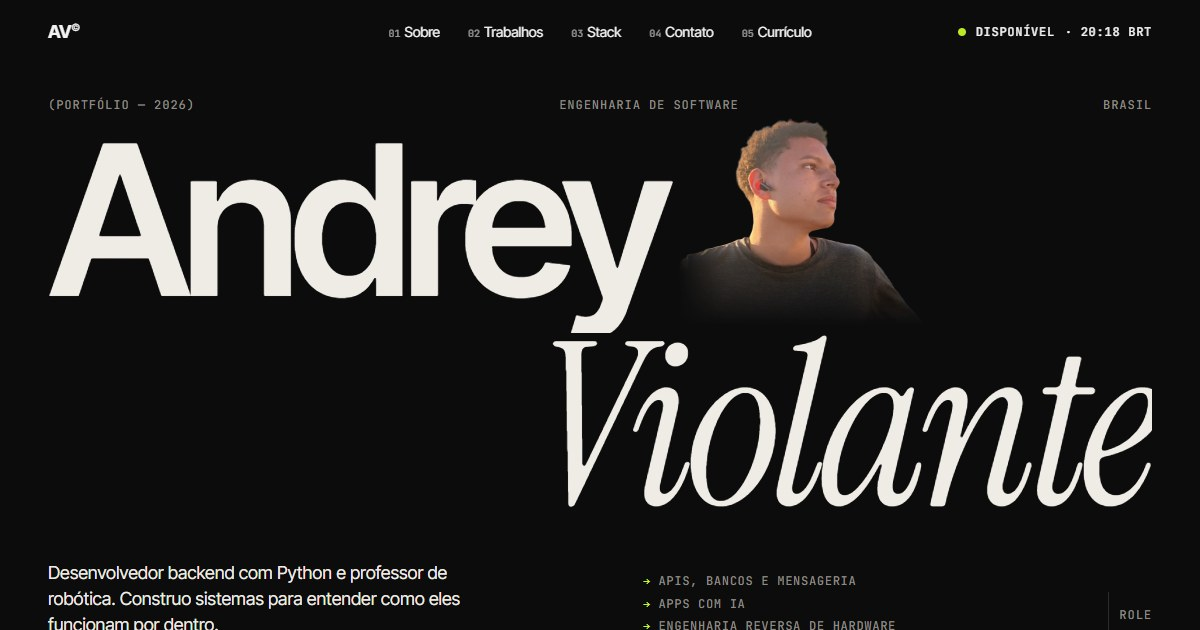
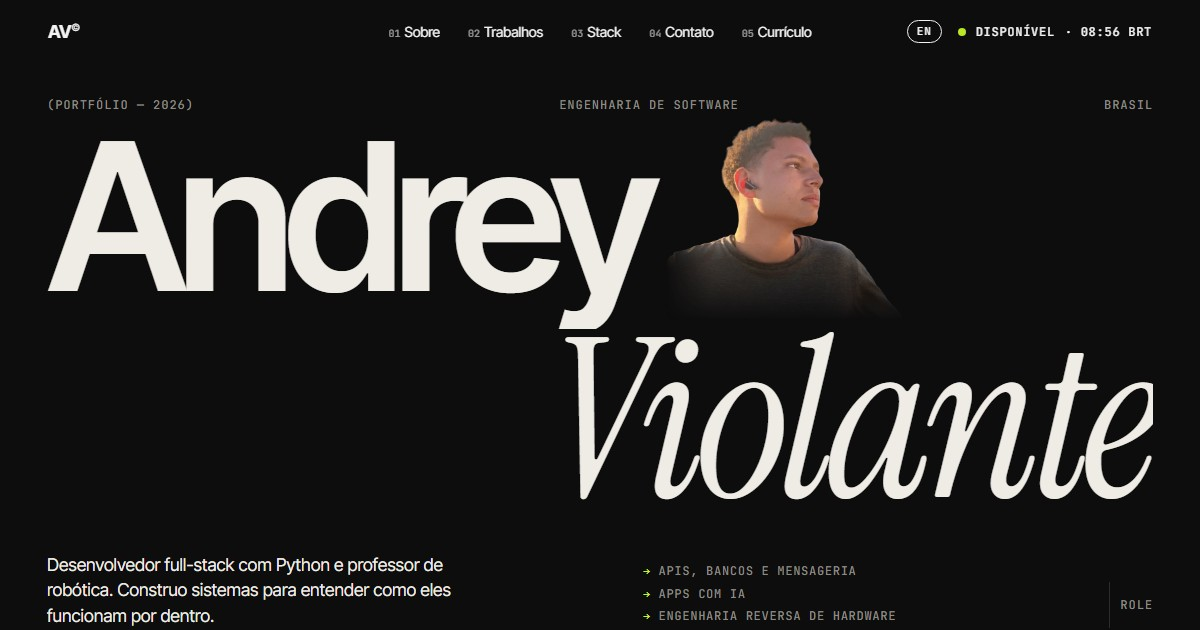
Portfólio em Full-Stack: textos em português e inglês, coluna Front-end no Stack e nova imagem de prévia

diff --git a/index.html b/index.html
@@ -3,11 +3,11 @@
 <head>
 <meta charset="utf-8">
 <meta name="viewport" content="width=device-width, initial-scale=1">
-<title>Andrey Violante · Desenvolvedor Backend</title>
-<meta name="description" content="Portfólio de Andrey Violante: estudante de Engenharia de Software, desenvolvedor backend com Python e professor de robótica.">
+<title>Andrey Violante · Desenvolvedor Full-Stack</title>
+<meta name="description" content="Portfólio de Andrey Violante: estudante de Engenharia de Software, desenvolvedor full-stack com Python e professor de robótica.">
 <meta name="theme-color" content="#0c0c0d">
-<meta property="og:title" content="Andrey Violante · Desenvolvedor Backend">
-<meta property="og:description" content="Backend com Python, apps com IA e engenharia reversa de hardware.">
+<meta property="og:title" content="Andrey Violante · Desenvolvedor Full-Stack">
+<meta property="og:description" content="Full-stack com Python, apps com IA e engenharia reversa de hardware.">
 <meta property="og:type" content="website">
 <meta property="og:url" content="https://andreyviolante.github.io/">
 <meta property="og:locale" content="pt_BR">
@@ -15,7 +15,7 @@
 <meta property="og:image" content="https://andreyviolante.github.io/assets/og.jpg">
 <meta property="og:image:width" content="1200">
 <meta property="og:image:height" content="630">
-<meta property="og:image:alt" content="Andrey Violante, desenvolvedor backend">
+<meta property="og:image:alt" content="Andrey Violante, desenvolvedor full-stack">
 <meta name="twitter:card" content="summary_large_image">
 <meta name="twitter:image" content="https://andreyviolante.github.io/assets/og.jpg">
 <link rel="canonical" href="https://andreyviolante.github.io/">
@@ -336,7 +336,7 @@
   .arrhead { fill: var(--muted); }
 
   /* stack */
-  .stack { display: grid; grid-template-columns: repeat(4, 1fr); gap: 24px; }
+  .stack { display: grid; grid-template-columns: repeat(5, 1fr); gap: 24px; }
   .stack h3 { margin: 0 0 18px; font-family: "Instrument Serif", serif; font-style: italic; font-weight: 400; font-size: clamp(30px, 3vw, 44px); letter-spacing: -.01em; line-height: 1; }
   .stack ul { list-style: none; margin: 0; padding: 0; }
   .stack li { padding: 12px 0; border-top: 1px solid var(--line); font-size: 18px; display: flex; justify-content: space-between; transition: padding .4s var(--ease), color .3s; }
@@ -408,7 +408,7 @@
       <span class="line l2" aria-hidden="true"><span id="t2"><em>Violante</em></span></span>
     </h1>
     <div class="hero-foot">
-      <p>Desenvolvedor backend com Python e professor de robótica. Construo sistemas para entender como eles funcionam por dentro.</p>
+      <p>Desenvolvedor full-stack com Python e professor de robótica. Construo sistemas para entender como eles funcionam por dentro.</p>
       <ul class="roles">
         <li>APIs, bancos e mensageria</li>
         <li>Apps com IA</li>
@@ -420,18 +420,18 @@
 
   <div class="marquee" aria-label="Tecnologias">
     <div class="marquee-track">
-      <span>Python</span><b>✦</b><span>FastAPI</span><b>✦</b><span>Django</span><b>✦</b><span>PostgreSQL</span><b>✦</b><span>MongoDB</span><b>✦</b><span>RabbitMQ</span><b>✦</b><span>Kafka</span><b>✦</b><span>Docker</span><b>✦</b><span>React Native</span><b>✦</b><span>TypeScript</span><b>✦</b><span>Kotlin</span><b>✦</b><span>Arduino</span><b>✦</b><span aria-hidden="true">Python</span><b>✦</b><span aria-hidden="true">FastAPI</span><b>✦</b><span aria-hidden="true">Django</span><b>✦</b><span aria-hidden="true">PostgreSQL</span><b>✦</b><span aria-hidden="true">MongoDB</span><b>✦</b><span aria-hidden="true">RabbitMQ</span><b>✦</b><span aria-hidden="true">Kafka</span><b>✦</b><span aria-hidden="true">Docker</span><b>✦</b><span aria-hidden="true">React Native</span><b>✦</b><span aria-hidden="true">TypeScript</span><b>✦</b><span aria-hidden="true">Kotlin</span><b>✦</b><span aria-hidden="true">Arduino</span><b>✦</b>
+      <span>Python</span><b>✦</b><span>FastAPI</span><b>✦</b><span>Django</span><b>✦</b><span>PostgreSQL</span><b>✦</b><span>MongoDB</span><b>✦</b><span>RabbitMQ</span><b>✦</b><span>Kafka</span><b>✦</b><span>Docker</span><b>✦</b><span>React</span><b>✦</b><span>HTML</span><b>✦</b><span>CSS</span><b>✦</b><span>React Native</span><b>✦</b><span>TypeScript</span><b>✦</b><span>Kotlin</span><b>✦</b><span>Arduino</span><b>✦</b><span aria-hidden="true">Python</span><b>✦</b><span aria-hidden="true">FastAPI</span><b>✦</b><span aria-hidden="true">Django</span><b>✦</b><span aria-hidden="true">PostgreSQL</span><b>✦</b><span aria-hidden="true">MongoDB</span><b>✦</b><span aria-hidden="true">RabbitMQ</span><b>✦</b><span aria-hidden="true">Kafka</span><b>✦</b><span aria-hidden="true">Docker</span><b>✦</b><span aria-hidden="true">React</span><b>✦</b><span aria-hidden="true">HTML</span><b>✦</b><span aria-hidden="true">CSS</span><b>✦</b><span aria-hidden="true">React Native</span><b>✦</b><span aria-hidden="true">TypeScript</span><b>✦</b><span aria-hidden="true">Kotlin</span><b>✦</b><span aria-hidden="true">Arduino</span><b>✦</b>
     </div>
   </div>
 
   <section id="sobre" class="sec wrap">
     <div class="sec-head"><span class="label">(01) Sobre</span><span class="label">Quem sou</span></div>
-    <p class="manifesto" id="manifesto">Gosto de abrir a caixa-preta. Estudo Engenharia de Software com foco em <em>backend</em>: APIs, bancos de dados e serviços que conversam por mensageria. Já fiz um compilador para um robô que <em>ninguém documentou</em>, um app de finanças que lê as notificações do banco e uma assistente de inglês que ensina <em>perguntando</em>. Também sou professor de robótica, e isso me ensinou a explicar o difícil de um jeito simples.</p>
+    <p class="manifesto" id="manifesto">Gosto de abrir a caixa-preta. Estudo Engenharia de Software com foco em desenvolvimento <em>full-stack</em>: da interface às APIs, bancos de dados e serviços que conversam por mensageria. Já fiz um compilador para um robô que <em>ninguém documentou</em>, um app de finanças que lê as notificações do banco e uma assistente de inglês que ensina <em>perguntando</em>. Também sou professor de robótica, e isso me ensinou a explicar o difícil de um jeito simples.</p>
     <dl class="facts">
       <div class="reveal"><dt class="label">Formação</dt><dd>Engenharia de Software, 6º período</dd></div>
-      <div class="reveal"><dt class="label">Foco</dt><dd>Backend com Python</dd></div>
+      <div class="reveal"><dt class="label">Foco</dt><dd>Full-stack com Python</dd></div>
       <div class="reveal"><dt class="label">Idiomas</dt><dd>Português e inglês avançado</dd></div>
-      <div class="reveal"><dt class="label">Procurando</dt><dd>Estágio ou vaga de backend júnior</dd></div>
+      <div class="reveal"><dt class="label">Procurando</dt><dd>Estágio ou vaga de full-stack júnior</dd></div>
     </dl>
     <div class="trail">
       <h3 class="label">Trajetória</h3>
@@ -439,7 +439,7 @@
         <li class="reveal"><span class="when">Ago 2023</span><div><b>Professor de robótica</b><p>Prefeitura Municipal de Maricá. Aulas de robótica e programação e preparação de equipe para a OBR.</p></div></li>
         <li class="reveal"><span class="when">2026</span><div><b>EST-LAB</b><p>Compilador e linguagem em português para programar o robô das aulas, com simulador e versão no navegador.</p></div></li>
         <li class="reveal"><span class="when">2026</span><div><b>Hi, Kiara!</b><p>Assistente de inglês com IA, apresentada na VI Mostra Pedagógica de Maricá.</p></div></li>
-        <li class="reveal"><span class="when">Hoje</span><div><b>Engenharia de Software</b><p>6º período na Universidade de Vassouras, com foco em backend.</p></div></li>
+        <li class="reveal"><span class="when">Hoje</span><div><b>Engenharia de Software</b><p>6º período na Universidade de Vassouras, com foco em desenvolvimento full-stack.</p></div></li>
       </ol>
     </div>
   </section>
@@ -705,6 +705,7 @@
   <section id="stack" class="sec wrap">
     <div class="sec-head"><span class="label">(03) Stack</span><span class="label">Ferramentas do dia a dia</span></div>
     <div class="stack">
+      <div class="reveal"><h3>Front-end</h3><ul><li>HTML</li><li>CSS</li><li>React</li></ul></div>
       <div class="reveal"><h3>Backend</h3><ul><li>Python</li><li>FastAPI</li><li>Django</li><li>pytest</li></ul></div>
       <div class="reveal"><h3>Dados</h3><ul><li>PostgreSQL</li><li>MongoDB</li><li>RabbitMQ</li><li>Kafka</li></ul></div>
       <div class="reveal"><h3>Mobile</h3><ul><li>React Native</li><li>Expo</li><li>TypeScript</li><li>Kotlin</li></ul></div>
@@ -713,10 +714,10 @@
   </section>
 
   <section id="contato" class="sec wrap contact">
-    <div class="sec-head"><span class="label">(04) Contato</span><span class="label">Estágio · Backend júnior</span></div>
+    <div class="sec-head"><span class="label">(04) Contato</span><span class="label">Estágio · Full-stack júnior</span></div>
     <h2 class="contact-title reveal">Vamos<br><em>conversar?</em></h2>
     <div class="contact-row">
-      <p>Estou aberto a oportunidades de estágio e de backend júnior. Pode me chamar pelo LinkedIn ou pelo e-mail <a class="ul" href="mailto:andreyviolante@gmail.com" data-cursor-link>andreyviolante@gmail.com</a>.</p>
+      <p>Estou aberto a oportunidades de estágio e de full-stack júnior. Pode me chamar pelo LinkedIn ou pelo e-mail <a class="ul" href="mailto:andreyviolante@gmail.com" data-cursor-link>andreyviolante@gmail.com</a>.</p>
       <a class="big-btn magnetic" href="https://linkedin.com/in/andrey-violante" target="_blank" rel="noopener" data-cursor="Oi!">Falar no<br>LinkedIn ↗</a>
     </div>
     <div class="links">

diff --git a/en/index.html b/en/index.html
@@ -3,11 +3,11 @@
 <head>
 <meta charset="utf-8">
 <meta name="viewport" content="width=device-width, initial-scale=1">
-<title>Andrey Violante · Backend Developer</title>
-<meta name="description" content="Portfolio of Andrey Violante: Software Engineering student, Python backend developer and robotics teacher.">
+<title>Andrey Violante · Full-Stack Developer</title>
+<meta name="description" content="Portfolio of Andrey Violante: Software Engineering student, Python full-stack developer and robotics teacher.">
 <meta name="theme-color" content="#0c0c0d">
-<meta property="og:title" content="Andrey Violante · Backend Developer">
-<meta property="og:description" content="Python backend, AI apps and hardware reverse engineering.">
+<meta property="og:title" content="Andrey Violante · Full-Stack Developer">
+<meta property="og:description" content="Full-stack Python, AI apps and hardware reverse engineering.">
 <meta property="og:type" content="website">
 <meta property="og:url" content="https://andreyviolante.github.io/en/">
 <meta property="og:locale" content="en_US">
@@ -15,7 +15,7 @@
 <meta property="og:image" content="https://andreyviolante.github.io/assets/og.jpg">
 <meta property="og:image:width" content="1200">
 <meta property="og:image:height" content="630">
-<meta property="og:image:alt" content="Andrey Violante, backend developer">
+<meta property="og:image:alt" content="Andrey Violante, full-stack developer">
 <meta name="twitter:card" content="summary_large_image">
 <meta name="twitter:image" content="https://andreyviolante.github.io/assets/og.jpg">
 <link rel="canonical" href="https://andreyviolante.github.io/en/">
@@ -336,7 +336,7 @@
   .arrhead { fill: var(--muted); }
 
   /* stack */
-  .stack { display: grid; grid-template-columns: repeat(4, 1fr); gap: 24px; }
+  .stack { display: grid; grid-template-columns: repeat(5, 1fr); gap: 24px; }
   .stack h3 { margin: 0 0 18px; font-family: "Instrument Serif", serif; font-style: italic; font-weight: 400; font-size: clamp(30px, 3vw, 44px); letter-spacing: -.01em; line-height: 1; }
   .stack ul { list-style: none; margin: 0; padding: 0; }
   .stack li { padding: 12px 0; border-top: 1px solid var(--line); font-size: 18px; display: flex; justify-content: space-between; transition: padding .4s var(--ease), color .3s; }
@@ -408,7 +408,7 @@
       <span class="line l2" aria-hidden="true"><span id="t2"><em>Violante</em></span></span>
     </h1>
     <div class="hero-foot">
-      <p>Python backend developer and robotics teacher. I build systems to understand how they work on the inside.</p>
+      <p>Python full-stack developer and robotics teacher. I build systems to understand how they work on the inside.</p>
       <ul class="roles">
         <li>APIs, databases and messaging</li>
         <li>AI apps</li>
@@ -420,18 +420,18 @@
 
   <div class="marquee" aria-label="Technologies">
     <div class="marquee-track">
-      <span>Python</span><b>✦</b><span>FastAPI</span><b>✦</b><span>Django</span><b>✦</b><span>PostgreSQL</span><b>✦</b><span>MongoDB</span><b>✦</b><span>RabbitMQ</span><b>✦</b><span>Kafka</span><b>✦</b><span>Docker</span><b>✦</b><span>React Native</span><b>✦</b><span>TypeScript</span><b>✦</b><span>Kotlin</span><b>✦</b><span>Arduino</span><b>✦</b><span aria-hidden="true">Python</span><b>✦</b><span aria-hidden="true">FastAPI</span><b>✦</b><span aria-hidden="true">Django</span><b>✦</b><span aria-hidden="true">PostgreSQL</span><b>✦</b><span aria-hidden="true">MongoDB</span><b>✦</b><span aria-hidden="true">RabbitMQ</span><b>✦</b><span aria-hidden="true">Kafka</span><b>✦</b><span aria-hidden="true">Docker</span><b>✦</b><span aria-hidden="true">React Native</span><b>✦</b><span aria-hidden="true">TypeScript</span><b>✦</b><span aria-hidden="true">Kotlin</span><b>✦</b><span aria-hidden="true">Arduino</span><b>✦</b>
+      <span>Python</span><b>✦</b><span>FastAPI</span><b>✦</b><span>Django</span><b>✦</b><span>PostgreSQL</span><b>✦</b><span>MongoDB</span><b>✦</b><span>RabbitMQ</span><b>✦</b><span>Kafka</span><b>✦</b><span>Docker</span><b>✦</b><span>React</span><b>✦</b><span>HTML</span><b>✦</b><span>CSS</span><b>✦</b><span>React Native</span><b>✦</b><span>TypeScript</span><b>✦</b><span>Kotlin</span><b>✦</b><span>Arduino</span><b>✦</b><span aria-hidden="true">Python</span><b>✦</b><span aria-hidden="true">FastAPI</span><b>✦</b><span aria-hidden="true">Django</span><b>✦</b><span aria-hidden="true">PostgreSQL</span><b>✦</b><span aria-hidden="true">MongoDB</span><b>✦</b><span aria-hidden="true">RabbitMQ</span><b>✦</b><span aria-hidden="true">Kafka</span><b>✦</b><span aria-hidden="true">Docker</span><b>✦</b><span aria-hidden="true">React</span><b>✦</b><span aria-hidden="true">HTML</span><b>✦</b><span aria-hidden="true">CSS</span><b>✦</b><span aria-hidden="true">React Native</span><b>✦</b><span aria-hidden="true">TypeScript</span><b>✦</b><span aria-hidden="true">Kotlin</span><b>✦</b><span aria-hidden="true">Arduino</span><b>✦</b>
     </div>
   </div>
 
   <section id="sobre" class="sec wrap">
     <div class="sec-head"><span class="label">(01) About</span><span class="label">Who I am</span></div>
-    <p class="manifesto" id="manifesto">I like opening the black box. I study Software Engineering with a focus on <em>backend</em>: APIs, databases and services that talk through messaging. I have built a compiler for a robot <em>nobody documented</em>, a finance app that reads bank notifications and an English assistant that teaches by <em>asking</em>. I am also a robotics teacher, which taught me to explain hard things in a simple way.</p>
+    <p class="manifesto" id="manifesto">I like opening the black box. I study Software Engineering with a focus on <em>full-stack</em> development: from the interface to APIs, databases and services that talk through messaging. I have built a compiler for a robot <em>nobody documented</em>, a finance app that reads bank notifications and an English assistant that teaches by <em>asking</em>. I am also a robotics teacher, which taught me to explain hard things in a simple way.</p>
     <dl class="facts">
       <div class="reveal"><dt class="label">Education</dt><dd>Software Engineering, 6th semester</dd></div>
-      <div class="reveal"><dt class="label">Focus</dt><dd>Backend with Python</dd></div>
+      <div class="reveal"><dt class="label">Focus</dt><dd>Full-stack with Python</dd></div>
       <div class="reveal"><dt class="label">Languages</dt><dd>Portuguese and advanced English</dd></div>
-      <div class="reveal"><dt class="label">Looking for</dt><dd>Backend internship or junior role</dd></div>
+      <div class="reveal"><dt class="label">Looking for</dt><dd>Full-stack internship or junior role</dd></div>
     </dl>
     <div class="trail">
       <h3 class="label">Timeline</h3>
@@ -439,7 +439,7 @@
         <li class="reveal"><span class="when">Aug 2023</span><div><b>Robotics teacher</b><p>City of Maricá (Prefeitura Municipal de Maricá), Brazil. Robotics and programming classes, and coaching a team for the Brazilian Robotics Olympiad (OBR).</p></div></li>
         <li class="reveal"><span class="when">2026</span><div><b>EST-LAB</b><p>Compiler and Portuguese-language programming language for the robot used in class, with a simulator and a browser version.</p></div></li>
         <li class="reveal"><span class="when">2026</span><div><b>Hi, Kiara!</b><p>AI assistant for English practice, presented at the 6th Maricá Pedagogical Fair.</p></div></li>
-        <li class="reveal"><span class="when">Now</span><div><b>Software Engineering</b><p>6th semester at Universidade de Vassouras, focused on backend.</p></div></li>
+        <li class="reveal"><span class="when">Now</span><div><b>Software Engineering</b><p>6th semester at Universidade de Vassouras, focused on full-stack development.</p></div></li>
       </ol>
     </div>
   </section>
@@ -705,6 +705,7 @@
   <section id="stack" class="sec wrap">
     <div class="sec-head"><span class="label">(03) Stack</span><span class="label">Everyday tools</span></div>
     <div class="stack">
+      <div class="reveal"><h3>Front-end</h3><ul><li>HTML</li><li>CSS</li><li>React</li></ul></div>
       <div class="reveal"><h3>Backend</h3><ul><li>Python</li><li>FastAPI</li><li>Django</li><li>pytest</li></ul></div>
       <div class="reveal"><h3>Data</h3><ul><li>PostgreSQL</li><li>MongoDB</li><li>RabbitMQ</li><li>Kafka</li></ul></div>
       <div class="reveal"><h3>Mobile</h3><ul><li>React Native</li><li>Expo</li><li>TypeScript</li><li>Kotlin</li></ul></div>
@@ -713,10 +714,10 @@
   </section>
 
   <section id="contato" class="sec wrap contact">
-    <div class="sec-head"><span class="label">(04) Contact</span><span class="label">Internship · Junior backend</span></div>
+    <div class="sec-head"><span class="label">(04) Contact</span><span class="label">Internship · Junior full-stack</span></div>
     <h2 class="contact-title reveal">Let’s<br><em>talk.</em></h2>
     <div class="contact-row">
-      <p>I am open to internship and junior backend opportunities. Reach me on LinkedIn or by email at <a class="ul" href="mailto:andreyviolante@gmail.com" data-cursor-link>andreyviolante@gmail.com</a>.</p>
+      <p>I am open to internship and junior full-stack opportunities. Reach me on LinkedIn or by email at <a class="ul" href="mailto:andreyviolante@gmail.com" data-cursor-link>andreyviolante@gmail.com</a>.</p>
       <a class="big-btn magnetic" href="https://linkedin.com/in/andrey-violante" target="_blank" rel="noopener" data-cursor="Hi!">Message me<br>on LinkedIn ↗</a>
     </div>
     <div class="links">
